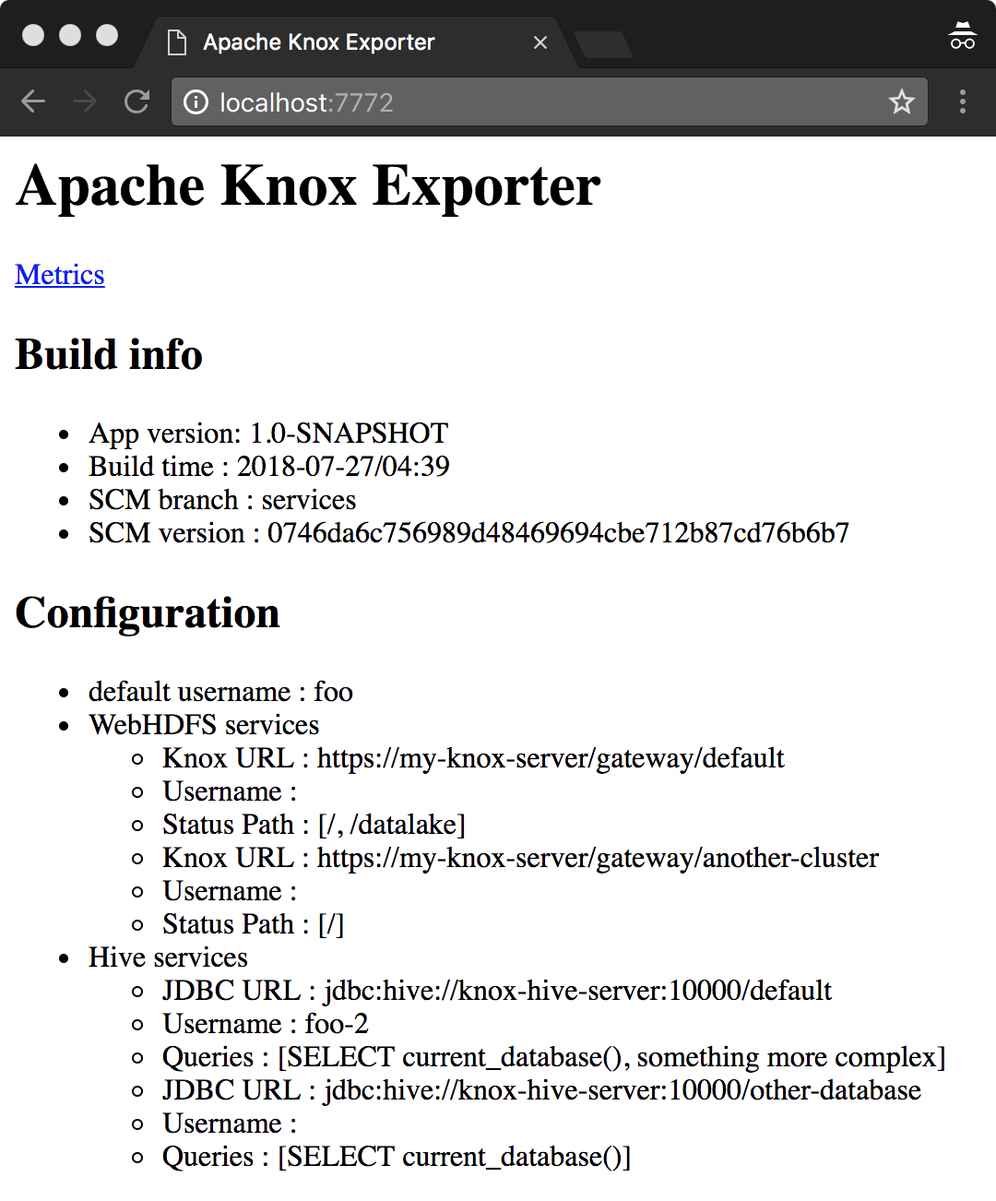
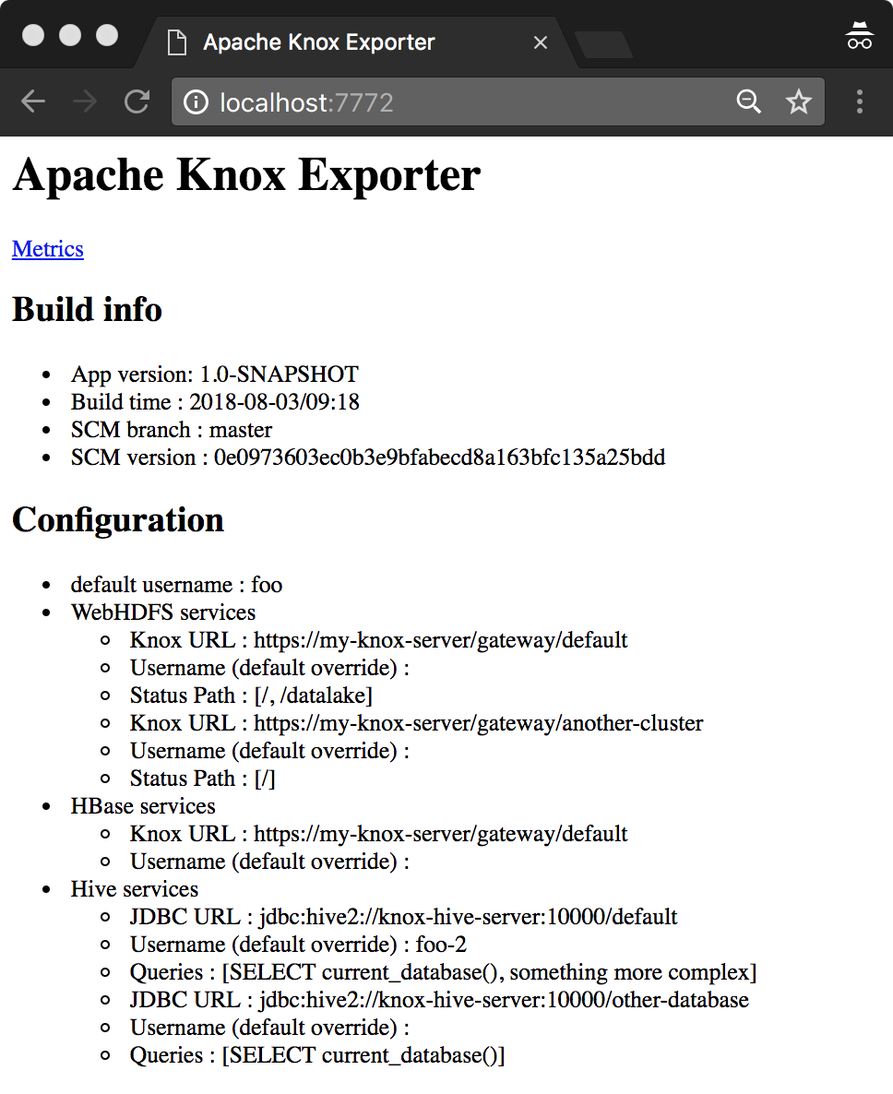
Issue #1: Support HBase via Knox

Changed region(s): [[0.0, 0.2184, 0.9607, 0.9983], [0.0, 0.0, 1.0, 0.1872], [0.9607, 0.0, 0.9917, 0.0624]]

diff --git a/src/main/java/de/m3y/prometheus/exporter/knox/KnoxCollector.java b/src/main/java/de/m3y/prometheus/exporter/knox/KnoxCollector.java
@@ -13,6 +13,7 @@ import io.prometheus.client.Summary;
 import org.apache.hive.jdbc.HiveDriver;
 import org.apache.knox.gateway.shell.BasicResponse;
 import org.apache.knox.gateway.shell.Hadoop;
+import org.apache.knox.gateway.shell.hbase.HBase;
 import org.apache.knox.gateway.shell.hdfs.Hdfs;
 import org.slf4j.Logger;
 import org.slf4j.LoggerFactory;
@@ -52,6 +53,7 @@ public class KnoxCollector extends Collector {
             .register();
     private static final String ACTION_HIVE_QUERY = "hive_query";
     private static final String ACTION_WEBHDFS_STATUS = "webhdfs_status";
+    private static final String ACTION_HBASE_STATUS = "hbase_status";
 
     private final ConfigLoader configLoader;
     private final ThreadPoolExecutor executorService;
@@ -143,10 +145,12 @@ public class KnoxCollector extends Collector {
                 username = config.getDefaultUsername();
             }
             for (String statusPath : webHdfsService.getStatusPaths()) {
-                newActions.add(new WebHdfsStatusAction(webHdfsService.getKnoxUrl(), statusPath, username, password));
+                final WebHdfsStatusAction webHdfsStatusAction = new WebHdfsStatusAction(webHdfsService.getKnoxUrl(),
+                        statusPath, username, password);
+                newActions.add(webHdfsStatusAction);
 
                 // https://www.robustperception.io/existential-issues-with-metrics
-                KNOX_OPS_ERRORS.labels(ACTION_WEBHDFS_STATUS, webHdfsService.getKnoxUrl(), username, statusPath);
+                KNOX_OPS_ERRORS.labels(webHdfsStatusAction.getLabels());
             }
         }
 
@@ -160,11 +164,29 @@ public class KnoxCollector extends Collector {
                 username = config.getDefaultUsername();
             }
             for (String query : hiveService.getQueries()) {
-                newActions.add(new HiveQueryAction(hiveService.getJdbcUrl(), query, username, password));
+                final HiveQueryAction hiveQueryAction = new HiveQueryAction(hiveService.getJdbcUrl(),
+                        query, username, password);
+                newActions.add(hiveQueryAction);
 
                 // https://www.robustperception.io/existential-issues-with-metrics
-                KNOX_OPS_ERRORS.labels(ACTION_HIVE_QUERY, hiveService.getJdbcUrl(), username, query);
+                KNOX_OPS_ERRORS.labels(hiveQueryAction.getLabels());
             }
+        }
+
+        for(Config.HBaseService hBaseService : config.getHbaseServices()) {
+            String password = hBaseService.getPassword();
+            if (null == password) {
+                password = config.getDefaultPassword();
+            }
+            String username = hBaseService.getUsername();
+            if (null == username) {
+                username = config.getDefaultUsername();
+            }
+
+            final HbaseStatusAction hbaseStatusAction = new HbaseStatusAction(hBaseService.getKnoxUrl(), username, password);
+            newActions.add(hbaseStatusAction);
+            // https://www.robustperception.io/existential-issues-with-metrics
+            KNOX_OPS_ERRORS.labels(hbaseStatusAction.getLabels());
         }
 
         return newActions;
@@ -190,6 +212,42 @@ public class KnoxCollector extends Collector {
         abstract Boolean perform();
 
         abstract String[] getLabels();
+    }
+
+    static class HbaseStatusAction extends MetricAction {
+        private final String knoxUrl;
+        private final String username;
+        private final String password;
+
+        HbaseStatusAction(String knoxUrl, String username, String password) {
+            this.knoxUrl = knoxUrl;
+            this.username = username;
+            this.password = password;
+        }
+
+        @Override
+        Boolean perform() {
+            try (final Hadoop hadoop = Hadoop.login(knoxUrl, username, password)) {
+                try (BasicResponse basicResponse = HBase.session(hadoop).status().now()) {
+                    if (basicResponse.getStatusCode() == 200) {
+                        return Boolean.TRUE;
+                    } else if (LOGGER.isDebugEnabled()) {
+                        LOGGER.debug("Failed HBase status action using knox url {}. " +
+                                        " Response status code is {}, body is {}",
+                                knoxUrl,
+                                basicResponse.getStatusCode(), basicResponse.getString());
+                    }
+                }
+            } catch (IOException | URISyntaxException e) {
+                LOGGER.warn("Failed to perform HBase status action: {}", e.getMessage());
+            }
+            return Boolean.FALSE;
+        }
+
+        @Override
+        String[] getLabels() {
+            return new String[]{ACTION_HBASE_STATUS, knoxUrl, username, "-"};
+        }
     }
 
     static class WebHdfsStatusAction extends MetricAction {

diff --git a/src/test/java/de/m3y/prometheus/exporter/knox/WebServerIT.java b/src/test/java/de/m3y/prometheus/exporter/knox/WebServerIT.java
@@ -69,6 +69,12 @@ public class WebServerIT {
         assertThat(body).contains("knox_exporter_ops_duration_seconds{action=\"hive_query\",uri=\"jdbc:hive2://localhost:10000/default\",user=\"foo\",param=\"SELECT current_database()\",quantile=\"0.99\",}");
         assertThat(body).contains("knox_exporter_ops_duration_seconds_count{action=\"hive_query\",uri=\"jdbc:hive2://localhost:10000/default\",user=\"foo\",param=\"SELECT current_database()\",}");
         assertThat(body).contains("knox_exporter_ops_duration_seconds_sum{action=\"hive_query\",uri=\"jdbc:hive2://localhost:10000/default\",user=\"foo\",param=\"SELECT current_database()\",}");
+        // HBase
+        assertThat(body).contains("knox_exporter_ops_duration_seconds{action=\"hbase_status\",uri=\"https://localhost:8443/gateway/default\",user=\"foo\",param=\"-\",quantile=\"0.5\",}");
+        assertThat(body).contains("knox_exporter_ops_duration_seconds{action=\"hbase_status\",uri=\"https://localhost:8443/gateway/default\",user=\"foo\",param=\"-\",quantile=\"0.95\",}");
+        assertThat(body).contains("knox_exporter_ops_duration_seconds{action=\"hbase_status\",uri=\"https://localhost:8443/gateway/default\",user=\"foo\",param=\"-\",quantile=\"0.99\",}");
+        assertThat(body).contains("knox_exporter_ops_duration_seconds_count{action=\"hbase_status\",uri=\"https://localhost:8443/gateway/default\",user=\"foo\",param=\"-\",}");
+        assertThat(body).contains("knox_exporter_ops_duration_seconds_sum{action=\"hbase_status\",uri=\"https://localhost:8443/gateway/default\",user=\"foo\",param=\"-\",}");
 
         // knox_exporter_ops_errors_total
         assertThat(body).contains("knox_exporter_ops_errors_total{action=\"hive_query\",uri=\"jdbc:hive2://localhost:10000/default\",user=\"foo\",param=\"SELECT current_database()\",}");

diff --git a/src/main/java/de/m3y/prometheus/exporter/knox/HomePageServlet.java b/src/main/java/de/m3y/prometheus/exporter/knox/HomePageServlet.java
@@ -40,14 +40,20 @@ public class HomePageServlet extends HttpServlet {
                 + "<ul>");
         for (Config.WebHdfsService webHdfsService : config.getWebHdfsServices()) {
             buf.append("<li>Knox URL : ").append(webHdfsService.getKnoxUrl()).append("</li>")
-                    .append("<li>Username : ").append(getEmtpyStringIfNull(webHdfsService.getUsername())).append("</li>")
+                    .append("<li>Username (default override) : ").append(getEmtpyStringIfNull(webHdfsService.getUsername())).append("</li>")
                     .append("<li>Status Path : ").append(Arrays.toString(webHdfsService.getStatusPaths())).append("</li>");
+        }
+        buf.append("</ul></li>")
+                .append("<li>HBase services<ul>");
+        for (Config.HBaseService hBaseService : config.getHbaseServices()) {
+            buf.append("<li>Knox URL : ").append(hBaseService.getKnoxUrl()).append("</li>")
+                    .append("<li>Username (default override) : ").append(getEmtpyStringIfNull(hBaseService.getUsername())).append("</li>");
         }
         buf.append("</ul></li>")
                 .append("<li>Hive services<ul>");
         for (Config.HiveService hiveService : config.getHiveServices()) {
             buf.append("<li>JDBC URL : ").append(hiveService.getJdbcUrl()).append("</li>")
-                    .append("<li>Username : ").append(getEmtpyStringIfNull(hiveService.getUsername())).append("</li>")
+                    .append("<li>Username  (default override) : ").append(getEmtpyStringIfNull(hiveService.getUsername())).append("</li>")
                     .append("<li>Queries : ").append(Arrays.toString(hiveService.getQueries())).append("</li>");
         }
         buf.append("</ul></li></html>");

diff --git a/src/main/java/de/m3y/prometheus/exporter/knox/Config.java b/src/main/java/de/m3y/prometheus/exporter/knox/Config.java
@@ -8,6 +8,7 @@ public class Config {
     private String defaultPassword;
     private WebHdfsService[] webHdfsServices;
     private HiveService[] hiveServices;
+    private HBaseService[] hbaseServices;
 
     public abstract static class KnoxService {
         private String username;
@@ -27,6 +28,18 @@ public class Config {
 
         public void setPassword(String password) {
             this.password = password;
+        }
+    }
+
+    public static class HBaseService extends KnoxService {
+        private String knoxUrl;
+
+        public String getKnoxUrl() {
+            return knoxUrl;
+        }
+
+        public void setKnoxUrl(String knoxUrl) {
+            this.knoxUrl = knoxUrl;
         }
     }
 
@@ -120,6 +133,14 @@ public class Config {
 
     public void setHiveServices(HiveService[] hiveServices) {
         this.hiveServices = hiveServices;
+    }
+
+    public HBaseService[] getHbaseServices() {
+        return hbaseServices;
+    }
+
+    public void setHbaseServices(HBaseService[] hbaseServices) {
+        this.hbaseServices = hbaseServices;
     }
 }
 

diff --git a/src/test/java/de/m3y/prometheus/exporter/knox/ConfigTest.java b/src/test/java/de/m3y/prometheus/exporter/knox/ConfigTest.java
@@ -43,5 +43,9 @@ public class ConfigTest {
         assertThat(webHdfsServices[0].getStatusPaths()).isEqualTo(new String[]{"/", "/datalake"});
         assertThat(webHdfsServices[1].getKnoxUrl()).isEqualTo("https://my-knox-server/gateway/another-cluster");
         assertThat(webHdfsServices[1].getStatusPaths()).isEqualTo(new String[]{"/"});
+
+        Config.HBaseService[] hBaseServices = config.getHbaseServices();
+        assertThat(hBaseServices.length).isEqualTo(1);
+        assertThat(hBaseServices[0].getKnoxUrl()).isEqualTo("https://localhost:8443/gateway/default");
     }
 }

diff --git a/README.md b/README.md
@@ -6,6 +6,7 @@ Prometheus Apache Knox Exporter
 A black box [Apache Knox](http://knox.apache.org) exporter for [Prometheus](https://prometheus.io/) supporting requests for
 * WebHDFS status
 * Hive query
+* HBase status
     
 The exporter collects per request
 * error count 
@@ -57,6 +58,10 @@ Available on [![Maven Central](https://img.shields.io/maven-central/v/de.m3y.pro
   - jdbcUrl: 'jdbc:hive2://localhost:10000/default'
     # One or more Hive Queries
     queries: ['SELECT current_database()']
+
+  # One or more HBase endpoints. Performs a status operation.
+  hbaseServices:
+  - knoxUrl: 'https://my-knox-server/gateway/default'
   ```
 
   The exporter uses [Knox Shell](https://knox.apache.org/books/knox-1-0-0/user-guide.html#Client+DSL+and+SDK+Details)
@@ -117,14 +122,66 @@ See the [example metrics](#example-metrics) output below.
 Here's an example output:
 
 ```
+# HELP knox_exporter_scrape_duration_seconds Scrape duration
+# TYPE knox_exporter_scrape_duration_seconds gauge
+knox_exporter_scrape_duration_seconds 0.514079402
+# HELP knox_exporter_scrape_requests_total Exporter requests made
+# TYPE knox_exporter_scrape_requests_total counter
+knox_exporter_scrape_requests_total 1.0
+# HELP knox_exporter_ops_errors_total Counts errors.
+# TYPE knox_exporter_ops_errors_total counter
+knox_exporter_ops_errors_total{action="hive_query",uri="jdbc:hive2://knox-hive-server:10000/default",user="foo-2",param="SELECT current_database()",} 0.0
+knox_exporter_ops_errors_total{action="hive_query",uri="jdbc:hive2://knox-hive-server:10000/default",user="foo-2",param="something more complex",} 0.0
+knox_exporter_ops_errors_total{action="webhdfs_status",uri="https://my-knox-server/gateway/another-cluster",user="foo",param="/",} 1.0
+knox_exporter_ops_errors_total{action="hbase_status",uri="https://my-knox-server/gateway/default",user="foo",param="-",} 1.0
+knox_exporter_ops_errors_total{action="webhdfs_status",uri="https://my-knox-server/gateway/default",user="foo",param="/datalake",} 1.0
+knox_exporter_ops_errors_total{action="hive_query",uri="jdbc:hive2://knox-hive-server:10000/other-database",user="foo",param="SELECT current_database()",} 0.0
+knox_exporter_ops_errors_total{action="webhdfs_status",uri="https://my-knox-server/gateway/default",user="foo",param="/",} 1.0
+# HELP knox_exporter_ops_duration_seconds Ops duration
+# TYPE knox_exporter_ops_duration_seconds summary
+knox_exporter_ops_duration_seconds{action="hive_query",uri="jdbc:hive2://knox-hive-server:10000/default",user="foo-2",param="SELECT current_database()",quantile="0.5",} 0.019994329
+knox_exporter_ops_duration_seconds{action="hive_query",uri="jdbc:hive2://knox-hive-server:10000/default",user="foo-2",param="SELECT current_database()",quantile="0.95",} 0.019994329
+knox_exporter_ops_duration_seconds{action="hive_query",uri="jdbc:hive2://knox-hive-server:10000/default",user="foo-2",param="SELECT current_database()",quantile="0.99",} 0.019994329
+knox_exporter_ops_duration_seconds_count{action="hive_query",uri="jdbc:hive2://knox-hive-server:10000/default",user="foo-2",param="SELECT current_database()",} 1.0
+knox_exporter_ops_duration_seconds_sum{action="hive_query",uri="jdbc:hive2://knox-hive-server:10000/default",user="foo-2",param="SELECT current_database()",} 0.019994329
+knox_exporter_ops_duration_seconds{action="hive_query",uri="jdbc:hive2://knox-hive-server:10000/default",user="foo-2",param="something more complex",quantile="0.5",} 0.020195183
+knox_exporter_ops_duration_seconds{action="hive_query",uri="jdbc:hive2://knox-hive-server:10000/default",user="foo-2",param="something more complex",quantile="0.95",} 0.020195183
+knox_exporter_ops_duration_seconds{action="hive_query",uri="jdbc:hive2://knox-hive-server:10000/default",user="foo-2",param="something more complex",quantile="0.99",} 0.020195183
+knox_exporter_ops_duration_seconds_count{action="hive_query",uri="jdbc:hive2://knox-hive-server:10000/default",user="foo-2",param="something more complex",} 1.0
+knox_exporter_ops_duration_seconds_sum{action="hive_query",uri="jdbc:hive2://knox-hive-server:10000/default",user="foo-2",param="something more complex",} 0.020195183
+knox_exporter_ops_duration_seconds{action="webhdfs_status",uri="https://my-knox-server/gateway/another-cluster",user="foo",param="/",quantile="0.5",} 0.510275706
+knox_exporter_ops_duration_seconds{action="webhdfs_status",uri="https://my-knox-server/gateway/another-cluster",user="foo",param="/",quantile="0.95",} 0.510275706
+knox_exporter_ops_duration_seconds{action="webhdfs_status",uri="https://my-knox-server/gateway/another-cluster",user="foo",param="/",quantile="0.99",} 0.510275706
+knox_exporter_ops_duration_seconds_count{action="webhdfs_status",uri="https://my-knox-server/gateway/another-cluster",user="foo",param="/",} 1.0
+knox_exporter_ops_duration_seconds_sum{action="webhdfs_status",uri="https://my-knox-server/gateway/another-cluster",user="foo",param="/",} 0.510275706
+knox_exporter_ops_duration_seconds{action="hbase_status",uri="https://my-knox-server/gateway/default",user="foo",param="-",quantile="0.5",} 0.51025998
+knox_exporter_ops_duration_seconds{action="hbase_status",uri="https://my-knox-server/gateway/default",user="foo",param="-",quantile="0.95",} 0.51025998
+knox_exporter_ops_duration_seconds{action="hbase_status",uri="https://my-knox-server/gateway/default",user="foo",param="-",quantile="0.99",} 0.51025998
+knox_exporter_ops_duration_seconds_count{action="hbase_status",uri="https://my-knox-server/gateway/default",user="foo",param="-",} 1.0
+knox_exporter_ops_duration_seconds_sum{action="hbase_status",uri="https://my-knox-server/gateway/default",user="foo",param="-",} 0.51025998
+knox_exporter_ops_duration_seconds{action="hive_query",uri="jdbc:hive2://knox-hive-server:10000/other-database",user="foo",param="SELECT current_database()",quantile="0.5",} 0.02009303
+knox_exporter_ops_duration_seconds{action="hive_query",uri="jdbc:hive2://knox-hive-server:10000/other-database",user="foo",param="SELECT current_database()",quantile="0.95",} 0.02009303
+knox_exporter_ops_duration_seconds{action="hive_query",uri="jdbc:hive2://knox-hive-server:10000/other-database",user="foo",param="SELECT current_database()",quantile="0.99",} 0.02009303
+knox_exporter_ops_duration_seconds_count{action="hive_query",uri="jdbc:hive2://knox-hive-server:10000/other-database",user="foo",param="SELECT current_database()",} 1.0
+knox_exporter_ops_duration_seconds_sum{action="hive_query",uri="jdbc:hive2://knox-hive-server:10000/other-database",user="foo",param="SELECT current_database()",} 0.02009303
+knox_exporter_ops_duration_seconds{action="webhdfs_status",uri="https://my-knox-server/gateway/default",user="foo",param="/datalake",quantile="0.5",} 0.510223914
+knox_exporter_ops_duration_seconds{action="webhdfs_status",uri="https://my-knox-server/gateway/default",user="foo",param="/datalake",quantile="0.95",} 0.510223914
+knox_exporter_ops_duration_seconds{action="webhdfs_status",uri="https://my-knox-server/gateway/default",user="foo",param="/datalake",quantile="0.99",} 0.510223914
+knox_exporter_ops_duration_seconds_count{action="webhdfs_status",uri="https://my-knox-server/gateway/default",user="foo",param="/datalake",} 1.0
+knox_exporter_ops_duration_seconds_sum{action="webhdfs_status",uri="https://my-knox-server/gateway/default",user="foo",param="/datalake",} 0.510223914
+knox_exporter_ops_duration_seconds{action="webhdfs_status",uri="https://my-knox-server/gateway/default",user="foo",param="/",quantile="0.5",} 0.510247134
+knox_exporter_ops_duration_seconds{action="webhdfs_status",uri="https://my-knox-server/gateway/default",user="foo",param="/",quantile="0.95",} 0.510247134
+knox_exporter_ops_duration_seconds{action="webhdfs_status",uri="https://my-knox-server/gateway/default",user="foo",param="/",quantile="0.99",} 0.510247134
+knox_exporter_ops_duration_seconds_count{action="webhdfs_status",uri="https://my-knox-server/gateway/default",user="foo",param="/",} 1.0
+knox_exporter_ops_duration_seconds_sum{action="webhdfs_status",uri="https://my-knox-server/gateway/default",user="foo",param="/",} 0.510247134
 # HELP jvm_memory_bytes_used Used bytes of a given JVM memory area.
 # TYPE jvm_memory_bytes_used gauge
-jvm_memory_bytes_used{area="heap",} 1.8600448E7
-jvm_memory_bytes_used{area="nonheap",} 2.2374256E7
+jvm_memory_bytes_used{area="heap",} 2.42938E7
+jvm_memory_bytes_used{area="nonheap",} 2.2678856E7
 # HELP jvm_memory_bytes_committed Committed (bytes) of a given JVM memory area.
 # TYPE jvm_memory_bytes_committed gauge
 jvm_memory_bytes_committed{area="heap",} 1.28974848E8
-jvm_memory_bytes_committed{area="nonheap",} 2.3199744E7
+jvm_memory_bytes_committed{area="nonheap",} 2.3461888E7
 # HELP jvm_memory_bytes_max Max (bytes) of a given JVM memory area.
 # TYPE jvm_memory_bytes_max gauge
 jvm_memory_bytes_max{area="heap",} 1.908932608E9
@@ -135,16 +192,16 @@ jvm_memory_bytes_init{area="heap",} 1.34217728E8
 jvm_memory_bytes_init{area="nonheap",} 2555904.0
 # HELP jvm_memory_pool_bytes_used Used bytes of a given JVM memory pool.
 # TYPE jvm_memory_pool_bytes_used gauge
-jvm_memory_pool_bytes_used{pool="Code Cache",} 4514496.0
-jvm_memory_pool_bytes_used{pool="Metaspace",} 1.599228E7
-jvm_memory_pool_bytes_used{pool="Compressed Class Space",} 1867480.0
-jvm_memory_pool_bytes_used{pool="PS Eden Space",} 1.1344352E7
-jvm_memory_pool_bytes_used{pool="PS Survivor Space",} 5210160.0
-jvm_memory_pool_bytes_used{pool="PS Old Gen",} 2045936.0
+jvm_memory_pool_bytes_used{pool="Code Cache",} 4552064.0
+jvm_memory_pool_bytes_used{pool="Metaspace",} 1.6239248E7
+jvm_memory_pool_bytes_used{pool="Compressed Class Space",} 1887544.0
+jvm_memory_pool_bytes_used{pool="PS Eden Space",} 1.6836576E7
+jvm_memory_pool_bytes_used{pool="PS Survivor Space",} 5226528.0
+jvm_memory_pool_bytes_used{pool="PS Old Gen",} 2230696.0
 # HELP jvm_memory_pool_bytes_committed Committed bytes of a given JVM memory pool.
 # TYPE jvm_memory_pool_bytes_committed gauge
 jvm_memory_pool_bytes_committed{pool="Code Cache",} 4587520.0
-jvm_memory_pool_bytes_committed{pool="Metaspace",} 1.6515072E7
+jvm_memory_pool_bytes_committed{pool="Metaspace",} 1.6777216E7
 jvm_memory_pool_bytes_committed{pool="Compressed Class Space",} 2097152.0
 jvm_memory_pool_bytes_committed{pool="PS Eden Space",} 3.407872E7
 jvm_memory_pool_bytes_committed{pool="PS Survivor Space",} 5242880.0
@@ -168,55 +225,9 @@ jvm_memory_pool_bytes_init{pool="PS Old Gen",} 8.9653248E7
 # HELP knox_exporter_scrape_errors_total Counts failed scrapes.
 # TYPE knox_exporter_scrape_errors_total counter
 knox_exporter_scrape_errors_total 0.0
-# HELP knox_exporter_ops_duration_seconds Ops duration
-# TYPE knox_exporter_ops_duration_seconds summary
-knox_exporter_ops_duration_seconds{action="hive_query",uri="jdbc:hive://knox-hive-server:10000/default",user="foo-2",param="something more complex",quantile="0.5",} 1.12311E-4
-knox_exporter_ops_duration_seconds{action="hive_query",uri="jdbc:hive://knox-hive-server:10000/default",user="foo-2",param="something more complex",quantile="0.95",} 1.12311E-4
-knox_exporter_ops_duration_seconds{action="hive_query",uri="jdbc:hive://knox-hive-server:10000/default",user="foo-2",param="something more complex",quantile="0.99",} 1.12311E-4
-knox_exporter_ops_duration_seconds_count{action="hive_query",uri="jdbc:hive://knox-hive-server:10000/default",user="foo-2",param="something more complex",} 2.0
-knox_exporter_ops_duration_seconds_sum{action="hive_query",uri="jdbc:hive://knox-hive-server:10000/default",user="foo-2",param="something more complex",} 6.776730000000001E-4
-knox_exporter_ops_duration_seconds{action="webhdfs_status",uri="https://my-knox-server/gateway/another-cluster",user="foo",param="/",quantile="0.5",} 0.015131894
-knox_exporter_ops_duration_seconds{action="webhdfs_status",uri="https://my-knox-server/gateway/another-cluster",user="foo",param="/",quantile="0.95",} 0.015131894
-knox_exporter_ops_duration_seconds{action="webhdfs_status",uri="https://my-knox-server/gateway/another-cluster",user="foo",param="/",quantile="0.99",} 0.015131894
-knox_exporter_ops_duration_seconds_count{action="webhdfs_status",uri="https://my-knox-server/gateway/another-cluster",user="foo",param="/",} 2.0
-knox_exporter_ops_duration_seconds_sum{action="webhdfs_status",uri="https://my-knox-server/gateway/another-cluster",user="foo",param="/",} 0.45810287099999997
-knox_exporter_ops_duration_seconds{action="webhdfs_status",uri="https://my-knox-server/gateway/default",user="foo",param="/datalake",quantile="0.5",} 0.015188893
-knox_exporter_ops_duration_seconds{action="webhdfs_status",uri="https://my-knox-server/gateway/default",user="foo",param="/datalake",quantile="0.95",} 0.015188893
-knox_exporter_ops_duration_seconds{action="webhdfs_status",uri="https://my-knox-server/gateway/default",user="foo",param="/datalake",quantile="0.99",} 0.015188893
-knox_exporter_ops_duration_seconds_count{action="webhdfs_status",uri="https://my-knox-server/gateway/default",user="foo",param="/datalake",} 2.0
-knox_exporter_ops_duration_seconds_sum{action="webhdfs_status",uri="https://my-knox-server/gateway/default",user="foo",param="/datalake",} 0.45818391399999997
-knox_exporter_ops_duration_seconds{action="webhdfs_status",uri="https://my-knox-server/gateway/default",user="foo",param="/",quantile="0.5",} 0.015194584
-knox_exporter_ops_duration_seconds{action="webhdfs_status",uri="https://my-knox-server/gateway/default",user="foo",param="/",quantile="0.95",} 0.015194584
-knox_exporter_ops_duration_seconds{action="webhdfs_status",uri="https://my-knox-server/gateway/default",user="foo",param="/",quantile="0.99",} 0.015194584
-knox_exporter_ops_duration_seconds_count{action="webhdfs_status",uri="https://my-knox-server/gateway/default",user="foo",param="/",} 2.0
-knox_exporter_ops_duration_seconds_sum{action="webhdfs_status",uri="https://my-knox-server/gateway/default",user="foo",param="/",} 0.458170967
-knox_exporter_ops_duration_seconds{action="hive_query",uri="jdbc:hive://knox-hive-server:10000/default",user="foo-2",param="SELECT current_database()",quantile="0.5",} 1.53822E-4
-knox_exporter_ops_duration_seconds{action="hive_query",uri="jdbc:hive://knox-hive-server:10000/default",user="foo-2",param="SELECT current_database()",quantile="0.95",} 1.53822E-4
-knox_exporter_ops_duration_seconds{action="hive_query",uri="jdbc:hive://knox-hive-server:10000/default",user="foo-2",param="SELECT current_database()",quantile="0.99",} 1.53822E-4
-knox_exporter_ops_duration_seconds_count{action="hive_query",uri="jdbc:hive://knox-hive-server:10000/default",user="foo-2",param="SELECT current_database()",} 2.0
-knox_exporter_ops_duration_seconds_sum{action="hive_query",uri="jdbc:hive://knox-hive-server:10000/default",user="foo-2",param="SELECT current_database()",} 7.36428E-4
-knox_exporter_ops_duration_seconds{action="hive_query",uri="jdbc:hive://knox-hive-server:10000/other-database",user="foo",param="SELECT current_database()",quantile="0.5",} 1.07689E-4
-knox_exporter_ops_duration_seconds{action="hive_query",uri="jdbc:hive://knox-hive-server:10000/other-database",user="foo",param="SELECT current_database()",quantile="0.95",} 1.07689E-4
-knox_exporter_ops_duration_seconds{action="hive_query",uri="jdbc:hive://knox-hive-server:10000/other-database",user="foo",param="SELECT current_database()",quantile="0.99",} 1.07689E-4
-knox_exporter_ops_duration_seconds_count{action="hive_query",uri="jdbc:hive://knox-hive-server:10000/other-database",user="foo",param="SELECT current_database()",} 2.0
-knox_exporter_ops_duration_seconds_sum{action="hive_query",uri="jdbc:hive://knox-hive-server:10000/other-database",user="foo",param="SELECT current_database()",} 6.87307E-4
-# HELP knox_exporter_scrape_requests_total Exporter requests made
-# TYPE knox_exporter_scrape_requests_total counter
-knox_exporter_scrape_requests_total 2.0
-# HELP knox_exporter_ops_errors_total Counts errors.
-# TYPE knox_exporter_ops_errors_total counter
-knox_exporter_ops_errors_total{action="webhdfs_status",uri="https://my-knox-server/gateway/another-cluster",user="foo",param="/",} 2.0
-knox_exporter_ops_errors_total{action="hive_query",uri="jdbc:hive://knox-hive-server:10000/default",user="foo-2",param="something more complex",} 2.0
-knox_exporter_ops_errors_total{action="webhdfs_status",uri="https://my-knox-server/gateway/default",user="foo",param="/datalake",} 2.0
-knox_exporter_ops_errors_total{action="webhdfs_status",uri="https://my-knox-server/gateway/default",user="foo",param="/",} 2.0
-knox_exporter_ops_errors_total{action="hive_query",uri="jdbc:hive://knox-hive-server:10000/default",user="foo-2",param="SELECT current_database()",} 2.0
-knox_exporter_ops_errors_total{action="hive_query",uri="jdbc:hive://knox-hive-server:10000/other-database",user="foo",param="SELECT current_database()",} 2.0
-# HELP knox_exporter_scrape_duration_seconds Scrape duration
-# TYPE knox_exporter_scrape_duration_seconds gauge
-knox_exporter_scrape_duration_seconds 0.015467557
 # HELP knox_exporter_app_info Application build info
 # TYPE knox_exporter_app_info gauge
-knox_exporter_app_info{appName="knox_exporter",appVersion="1.0-SNAPSHOT",buildTime="2018-07-27/04:39",buildScmVersion="0746da6c756989d48469694cbe712b87cd76b6b7",buildScmBranch="services",} 1.0
+knox_exporter_app_info{appName="knox_exporter",appVersion="1.0-SNAPSHOT",buildTime="2018-08-03/09:18",buildScmVersion="0e0973603ec0b3e9bfabecd8a163bfc135a25bdd",buildScmBranch="master",} 1.0
 ```
 ## License
 
